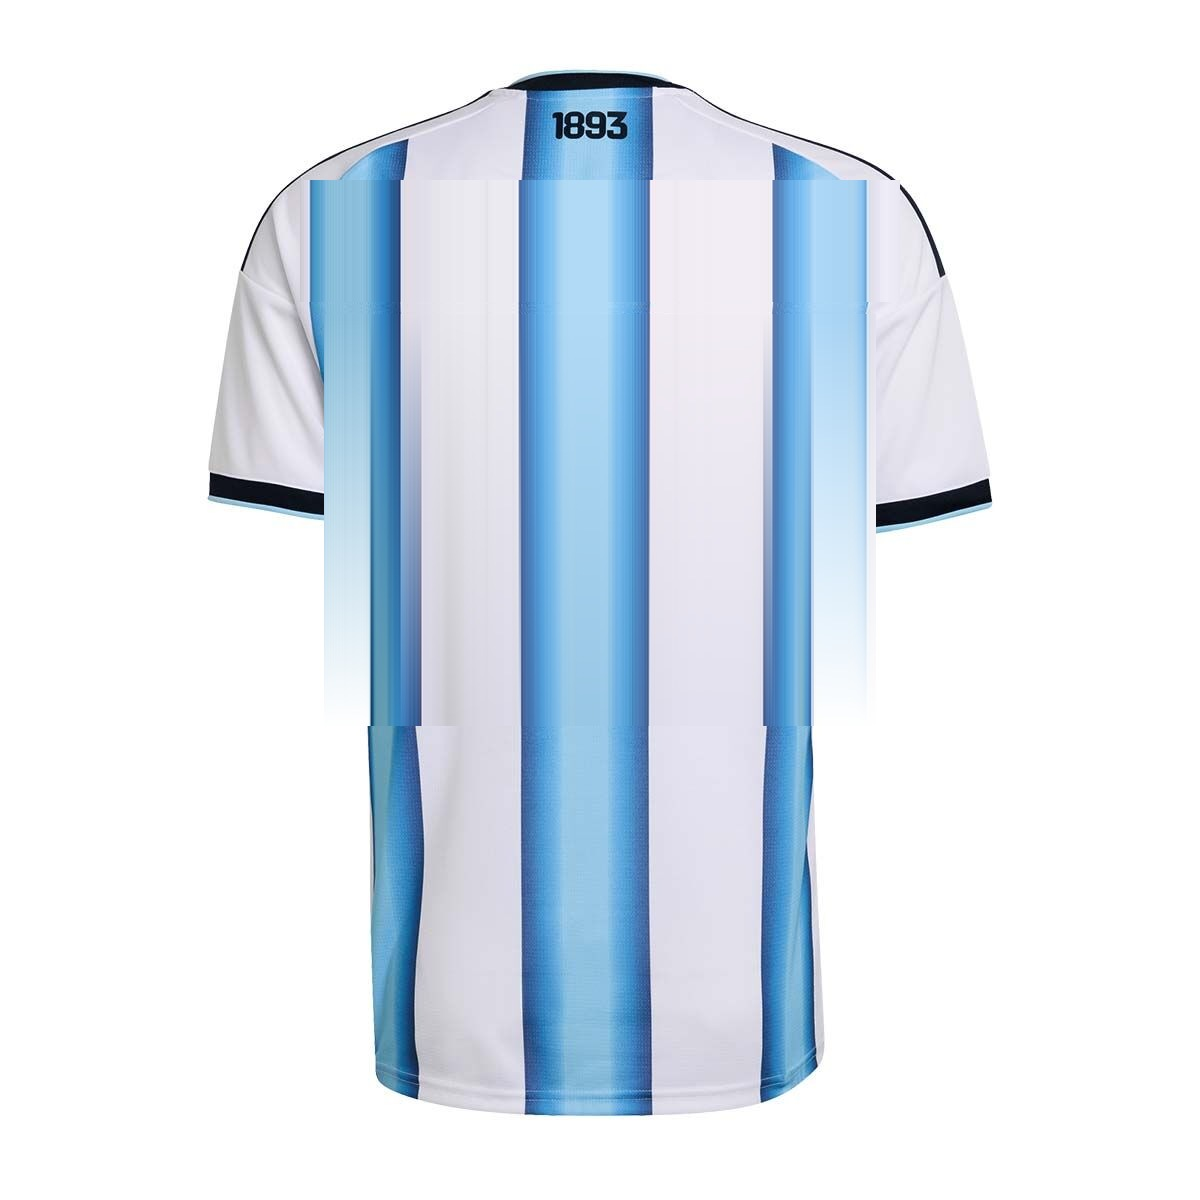
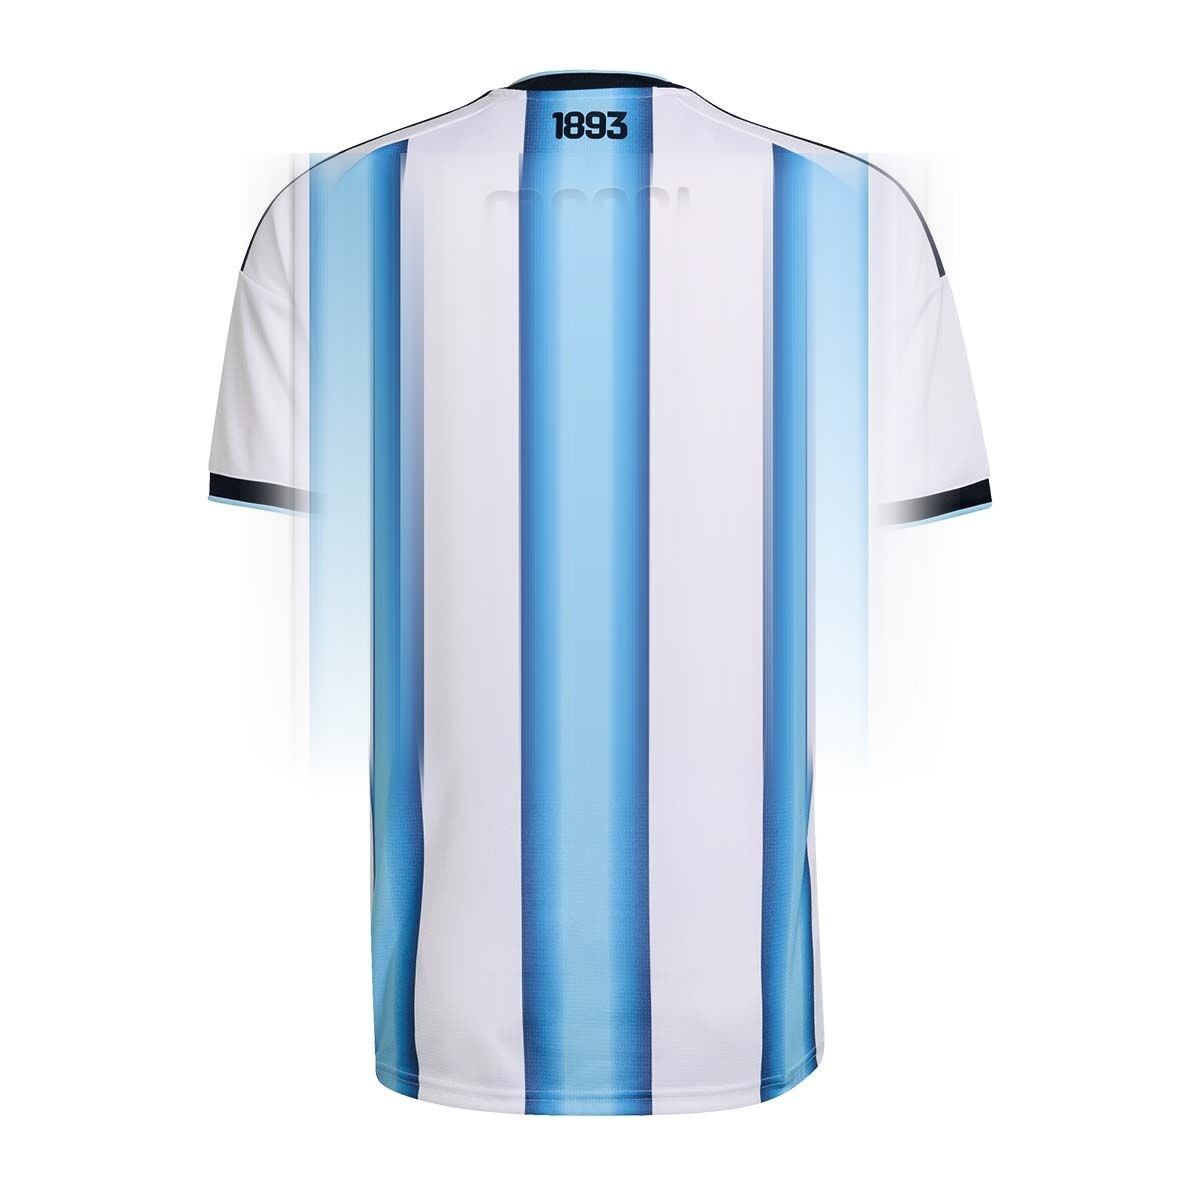
Funde el inpaint de la espalda en blanco (sin recuadro visible)

diff --git a/js/data.js b/js/data.js
@@ -16,7 +16,7 @@ window.SHOP = {
    - PLACEHOLDER_BLANK: misma camiseta con la espalda EN BLANCO (sin estampar)
      sobre la que se personaliza el dorsal en vivo. */
 window.PLACEHOLDER_IMG = "assets/jerseys/argentina-back.jpg";
-window.PLACEHOLDER_BLANK = "assets/jerseys/argentina-back-blank.jpg";
+window.PLACEHOLDER_BLANK = "assets/jerseys/argentina-back-blank.jpg?v=3";
 
 /* Calibración del overlay de personalización SOBRE FOTO (en % del cuadro
    de la imagen). Usado cuando una camiseta tiene foto de espalda EN BLANCO